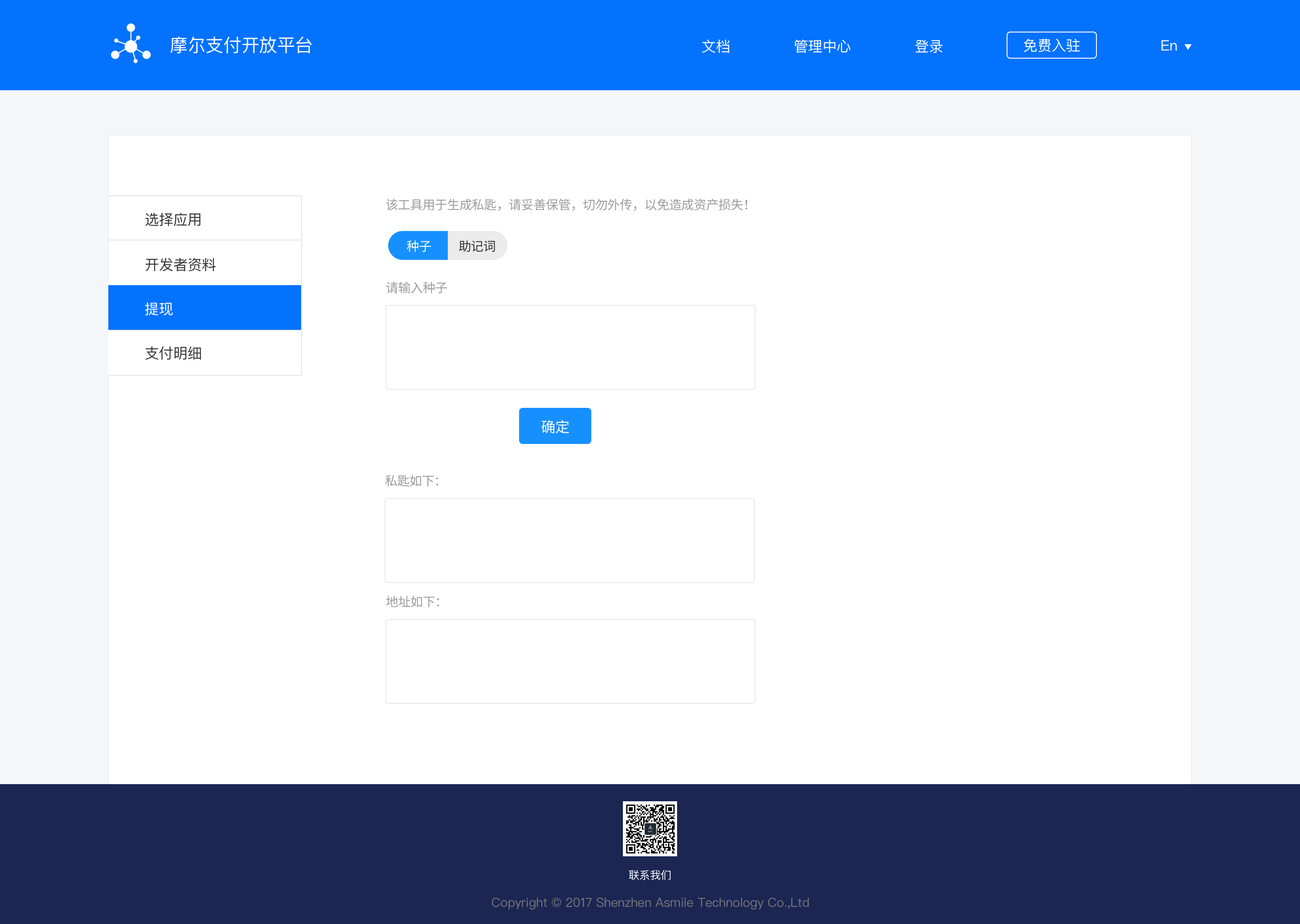
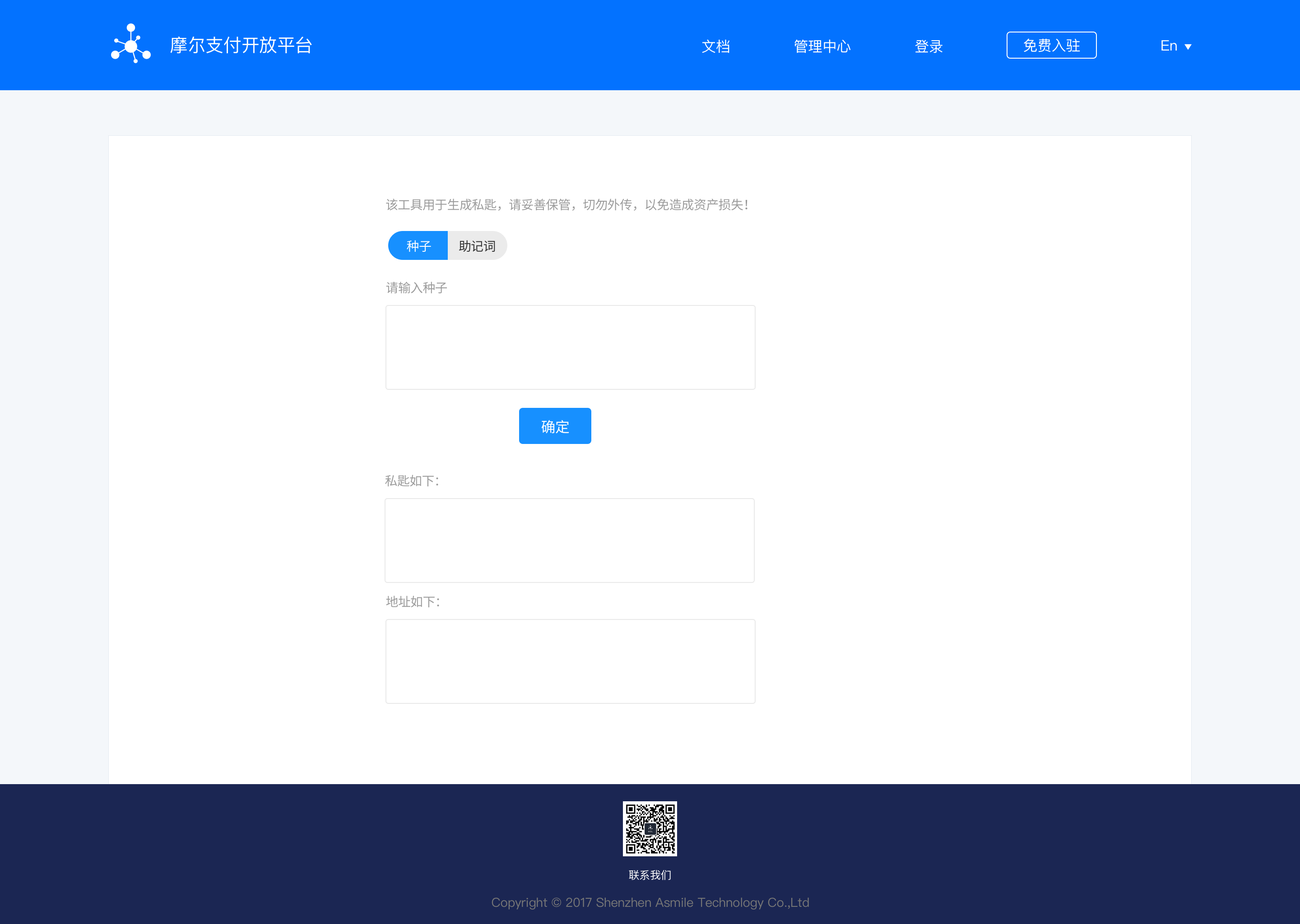
私匙更新

Changed region(s): [[0.0625, 0.2812, 0.25, 0.4062], [0.125, 0.2188, 0.1562, 0.25]]

diff --git a/摩尔支付开放平台/私匙/index.html b/摩尔支付开放平台/私匙/index.html
@@ -1661,7 +1661,7 @@ I18N['zh-cn'] = {
     init.prototype = SMApp.fn;
     window.SMApp = SMApp;
 })(window);
-$(function(){ SMApp({"scale":"1","unit":"px","colorFormat":"color-hex","artboards":[{"layers":[{"objectID":"0A1C957A-36DC-4FA8-BDC0-C4E9CF4DA9D5","type":"shape","name":"矩形","rect":{"x":0,"y":0,"width":1440,"height":100},"rotation":0,"radius":0,"borders":[],"fills":[{"fillType":"color","color":{"r":3,"g":114,"b":255,"a":1,"color-hex":"#0372FF 100%","argb-hex":"#FF0372FF","css-rgba":"rgba(3,114,255,1)","ui-color":"(r:0.01 g:0.45 b:1.00 a:1.00)"}}],"shadows":[],"opacity":1,"styleName":"","css":["background: #0372FF;"]},{"objectID":"A4912F43-6F9C-484B-A574-D0B60FF44DA0","type":"text","name":"En","rect":{"x":1285.5,"y":39,"width":19,"height":22},"rotation":0,"radius":0,"borders":[],"fills":[],"shadows":[],"opacity":1,"styleName":"","content":"En","color":{"r":255,"g":255,"b":255,"a":1,"color-hex":"#FFFFFF 100%","argb-hex":"#FFFFFFFF","css-rgba":"rgba(255,255,255,1)","ui-color":"(r:1.00 g:1.00 b:1.00 a:1.00)"},"fontSize":16,"fontFace":"PingFangSC-Regular","textAlign":"center","letterSpacing":-0.2231796,"lineHeight":22,"css":["font-family: PingFangSC-Regular;","font-size: 16px;","color: #FFFFFF;","letter-spacing: -0.22px;","text-align: center;"]},{"objectID":"61E01CC3-31BA-4160-82E2-FCCB2616BC03","type":"slice","name":"Expansion","rect":{"x":1312,"y":49,"width":8,"height":6.3},"css":["transform: rotate(-180deg);","background: #FFFFFF;"],"exportable":[{"name":"Expansion","format":"png","path":"Expansion@1x.png"},{"name":"Expansion","format":"png","path":"mdpi/Expansion.svg"}]},{"objectID":"602B827E-B468-432F-AEA1-45779EEC31F7","type":"slice","name":"logo","rect":{"x":123,"y":26,"width":44,"height":44},"css":["background: #FFFFFF;"],"exportable":[{"name":"logo","format":"png","path":"logo@1x.png"},{"name":"logo","format":"png","path":"mdpi/logo.svg"}]},{"objectID":"1915C114-AEBB-4E1C-B26D-BD3E9548A801","type":"text","name":"摩尔支付开放平台","rect":{"x":188,"y":36,"width":159,"height":28},"rotation":0,"radius":0,"borders":[],"fills":[],"shadows":[],"opacity":1,"styleName":"","content":"摩尔支付开放平台","color":{"r":255,"g":255,"b":255,"a":1,"color-hex":"#FFFFFF 100%","argb-hex":"#FFFFFFFF","css-rgba":"rgba(255,255,255,1)","ui-color":"(r:1.00 g:1.00 b:1.00 a:1.00)"},"fontSize":20,"fontFace":"PingFangSC-Regular","textAlign":"center","letterSpacing":-0.2092309,"lineHeight":28,"css":["font-family: PingFangSC-Regular;","font-size: 20px;","color: #FFFFFF;","letter-spacing: -0.21px;","text-align: center;"]},{"objectID":"BC3B90B1-C7BC-4526-8487-7C83133846DC","type":"text","name":"文档","rect":{"x":777,"y":40,"width":32,"height":22},"rotation":0,"radius":0,"borders":[],"fills":[],"shadows":[],"opacity":1,"styleName":"","content":"文档","color":{"r":255,"g":255,"b":255,"a":1,"color-hex":"#FFFFFF 100%","argb-hex":"#FFFFFFFF","css-rgba":"rgba(255,255,255,1)","ui-color":"(r:1.00 g:1.00 b:1.00 a:1.00)"},"fontSize":16,"fontFace":"PingFangSC-Regular","textAlign":"center","letterSpacing":-0.1673847,"lineHeight":22,"css":["font-family: PingFangSC-Regular;","font-size: 16px;","color: #FFFFFF;","letter-spacing: -0.17px;","text-align: center;"]},{"objectID":"6A8680C0-0F57-4E5E-ACC3-D3C4BE0EFB75","type":"text","name":"管理中心","rect":{"x":879,"y":40,"width":64,"height":22},"rotation":0,"radius":0,"borders":[],"fills":[],"shadows":[],"opacity":1,"styleName":"","content":"管理中心","color":{"r":255,"g":255,"b":255,"a":1,"color-hex":"#FFFFFF 100%","argb-hex":"#FFFFFFFF","css-rgba":"rgba(255,255,255,1)","ui-color":"(r:1.00 g:1.00 b:1.00 a:1.00)"},"fontSize":16,"fontFace":"PingFangSC-Regular","textAlign":"center","letterSpacing":-0.1673847,"lineHeight":22,"css":["font-family: PingFangSC-Regular;","font-size: 16px;","color: #FFFFFF;","letter-spacing: -0.17px;","text-align: center;"]},{"objectID":"E7B201AD-21E7-4EBE-93A9-DC160C429235","type":"text","name":"登录","rect":{"x":1013,"y":40,"width":32,"height":22},"rotation":0,"radius":0,"borders":[],"fills":[],"shadows":[],"opacity":1,"styleName":"","content":"登录","color":{"r":255,"g":255,"b":255,"a":1,"color-hex":"#FFFFFF 100%","argb-hex":"#FFFFFFFF","css-rgba":"rgba(255,255,255,1)","ui-color":"(r:1.00 g:1.00 b:1.00 a:1.00)"},"fontSize":16,"fontFace":"PingFangSC-Regular","textAlign":"center","letterSpacing":-0.1673847,"lineHeight":22,"css":["font-family: PingFangSC-Regular;","font-size: 16px;","color: #FFFFFF;","letter-spacing: -0.17px;","text-align: center;"]},{"objectID":"76AA71CF-F390-4C1B-8620-9D1C7236388C","type":"text","name":"免费入驻","rect":{"x":1133,"y":39,"width":64,"height":22},"rotation":0,"radius":0,"borders":[],"fills":[],"shadows":[],"opacity":1,"styleName":"","content":"免费入驻","color":{"r":255,"g":255,"b":255,"a":1,"color-hex":"#FFFFFF 100%","argb-hex":"#FFFFFFFF","css-rgba":"rgba(255,255,255,1)","ui-color":"(r:1.00 g:1.00 b:1.00 a:1.00)"},"fontSize":16,"fontFace":"PingFangSC-Regular","textAlign":"center","letterSpacing":-0.1673847,"lineHeight":22,"css":["font-family: PingFangSC-Regular;","font-size: 16px;","color: #FFFFFF;","letter-spacing: -0.17px;","text-align: center;"]},{"objectID":"F08786CB-BFE1-4BE7-ABC4-3C3E75A24316","type":"shape","name":"矩形","rect":{"x":1115,"y":35,"width":100,"height":30},"rotation":0,"radius":4,"borders":[{"fillType":"color","position":"inside","thickness":1,"color":{"r":255,"g":255,"b":255,"a":1,"color-hex":"#FFFFFF 100%","argb-hex":"#FFFFFFFF","css-rgba":"rgba(255,255,255,1)","ui-color":"(r:1.00 g:1.00 b:1.00 a:1.00)"}}],"fills":[],"shadows":[],"opacity":1,"styleName":"","css":["border: 1px solid #FFFFFF;","border-radius: 4px;"]},{"objectID":"536975AE-C8E7-4EDF-A716-7A8EA44C1FB2","type":"shape","name":"矩形","rect":{"x":0,"y":869,"width":1440,"height":155},"rotation":0,"radius":0,"borders":[],"fills":[{"fillType":"color","color":{"r":27,"g":38,"b":83,"a":1,"color-hex":"#1B2653 100%","argb-hex":"#FF1B2653","css-rgba":"rgba(27,38,83,1)","ui-color":"(r:0.11 g:0.15 b:0.33 a:1.00)"}}],"shadows":[],"opacity":1,"styleName":"","css":["background: #1B2653;"]},{"objectID":"D9AC897D-B4A6-4992-BF5F-9BF0AC6F2FE0","type":"text","name":"Copyright &#169 2017 She","rect":{"x":544,"y":990,"width":353,"height":20},"rotation":0,"radius":0,"borders":[],"fills":[],"shadows":[],"opacity":1,"styleName":"","content":"Copyright &#169 2017 Shenzhen Asmile Technology Co.,Ltd","color":{"r":118,"g":118,"b":118,"a":1,"color-hex":"#767676 100%","argb-hex":"#FF767676","css-rgba":"rgba(118,118,118,1)","ui-color":"(r:0.46 g:0.46 b:0.46 a:1.00)"},"fontSize":14,"fontFace":"PingFangSC-Regular","textAlign":"center","letterSpacing":-0.1464617,"lineHeight":20,"css":["font-family: PingFangSC-Regular;","font-size: 14px;","color: #767676;","letter-spacing: -0.15px;","text-align: center;"]},{"objectID":"4412230F-C463-4F86-98C1-986B607578E5","type":"text","name":"联系我们","rect":{"x":696,"y":961,"width":48,"height":17},"rotation":0,"radius":0,"borders":[],"fills":[],"shadows":[],"opacity":1,"styleName":"","content":"联系我们","color":{"r":255,"g":255,"b":255,"a":1,"color-hex":"#FFFFFF 100%","argb-hex":"#FFFFFFFF","css-rgba":"rgba(255,255,255,1)","ui-color":"(r:1.00 g:1.00 b:1.00 a:1.00)"},"fontSize":12,"fontFace":"PingFangSC-Regular","textAlign":"center","letterSpacing":-0.1255386,"lineHeight":17,"css":["font-family: PingFangSC-Regular;","font-size: 12px;","color: #FFFFFF;","letter-spacing: -0.13px;","text-align: center;"]},{"objectID":"B9211943-A84C-4D57-B9CA-E33D772E5F1F","type":"shape","name":"二维码","rect":{"x":690,"y":888,"width":60,"height":61},"rotation":0,"radius":0,"borders":[],"fills":[],"shadows":[],"opacity":1,"styleName":""},{"objectID":"72EE8738-7FD3-464C-8AA7-D7BD938295AB","type":"shape","name":"矩形 copy","rect":{"x":120,"y":317,"width":214,"height":50},"rotation":0,"radius":0,"borders":[],"fills":[{"fillType":"color","color":{"r":255,"g":255,"b":255,"a":1,"color-hex":"#FFFFFF 100%","argb-hex":"#FFFFFFFF","css-rgba":"rgba(255,255,255,1)","ui-color":"(r:1.00 g:1.00 b:1.00 a:1.00)"}}],"shadows":[],"opacity":1,"styleName":"","css":["background: #FFFFFF;"]},{"objectID":"6F1F7BC6-6625-41A5-BCEA-9004950B3D0A","type":"shape","name":"矩形","rect":{"x":120,"y":316,"width":214,"height":50},"rotation":0,"radius":0,"borders":[],"fills":[{"fillType":"color","color":{"r":3,"g":114,"b":255,"a":1,"color-hex":"#0372FF 100%","argb-hex":"#FF0372FF","css-rgba":"rgba(3,114,255,1)","ui-color":"(r:0.01 g:0.45 b:1.00 a:1.00)"}}],"shadows":[],"opacity":1,"styleName":"","css":["background: #0372FF;"]},{"objectID":"45CB775E-A5D7-40F8-9149-CAA90181886C","type":"shape","name":"矩形 copy 2","rect":{"x":120,"y":366,"width":214,"height":50},"rotation":0,"radius":0,"borders":[],"fills":[{"fillType":"color","color":{"r":255,"g":255,"b":255,"a":1,"color-hex":"#FFFFFF 100%","argb-hex":"#FFFFFFFF","css-rgba":"rgba(255,255,255,1)","ui-color":"(r:1.00 g:1.00 b:1.00 a:1.00)"}}],"shadows":[],"opacity":1,"styleName":"","css":["background: #FFFFFF;"]},{"objectID":"16C1C58C-A249-4894-A337-C7C42E5FD1D2","type":"shape","name":"直线","rect":{"x":120,"y":365,"width":215,"height":2},"rotation":0,"radius":0,"borders":[{"fillType":"color","position":"center","thickness":1,"color":{"r":224,"g":230,"b":237,"a":1,"color-hex":"#E0E6ED 100%","argb-hex":"#FFE0E6ED","css-rgba":"rgba(224,230,237,1)","ui-color":"(r:0.88 g:0.90 b:0.93 a:1.00)"}}],"fills":[],"shadows":[],"opacity":1,"styleName":"","css":["border: 1px solid #E0E6ED;"]},{"objectID":"497A8293-413D-4B39-9BC6-0A6F84C0E8F8","type":"shape","name":"直线 copy 5","rect":{"x":120,"y":265,"width":215,"height":2},"rotation":0,"radius":0,"borders":[{"fillType":"color","position":"center","thickness":1,"color":{"r":224,"g":230,"b":237,"a":1,"color-hex":"#E0E6ED 100%","argb-hex":"#FFE0E6ED","css-rgba":"rgba(224,230,237,1)","ui-color":"(r:0.88 g:0.90 b:0.93 a:1.00)"}}],"fills":[],"shadows":[],"opacity":1,"styleName":"","css":["border: 1px solid #E0E6ED;"]},{"objectID":"4991BD96-8FF3-48B3-A8A6-D3F942BDC72F","type":"shape","name":"直线 copy 3","rect":{"x":120,"y":216,"width":215,"height":2},"rotation":0,"radius":0,"borders":[{"fillType":"color","position":"center","thickness":1,"color":{"r":224,"g":230,"b":237,"a":1,"color-hex":"#E0E6ED 100%","argb-hex":"#FFE0E6ED","css-rgba":"rgba(224,230,237,1)","ui-color":"(r:0.88 g:0.90 b:0.93 a:1.00)"}}],"fills":[],"shadows":[],"opacity":1,"styleName":"","css":["border: 1px solid #E0E6ED;"]},{"objectID":"6B2FA85A-A197-4419-9C84-B5B9C9407857","type":"shape","name":"直线 copy 2","rect":{"x":120,"y":415,"width":215,"height":2},"rotation":0,"radius":0,"borders":[{"fillType":"color","position":"center","thickness":1,"color":{"r":224,"g":230,"b":237,"a":1,"color-hex":"#E0E6ED 100%","argb-hex":"#FFE0E6ED","css-rgba":"rgba(224,230,237,1)","ui-color":"(r:0.88 g:0.90 b:0.93 a:1.00)"}}],"fills":[],"shadows":[],"opacity":1,"styleName":"","css":["border: 1px solid #E0E6ED;"]},{"objectID":"6D666F75-191E-41D5-BA34-C3B3E32AE599","type":"shape","name":"直线 copy","rect":{"x":333.5,"y":216.5,"width":1,"height":200},"rotation":90,"radius":0,"borders":[{"fillType":"color","position":"center","thickness":1,"color":{"r":224,"g":230,"b":237,"a":1,"color-hex":"#E0E6ED 100%","argb-hex":"#FFE0E6ED","css-rgba":"rgba(224,230,237,1)","ui-color":"(r:0.88 g:0.90 b:0.93 a:1.00)"}}],"fills":[],"shadows":[],"opacity":1,"styleName":"","css":["transform: rotate(-90deg);","border: 1px solid #E0E6ED;"]},{"objectID":"C8224D1B-7AC3-4FA7-BF98-28022F4FC000","type":"text","name":"开发者资料","rect":{"x":160,"y":282,"width":80,"height":22},"rotation":0,"radius":0,"borders":[],"fills":[],"shadows":[],"opacity":1,"styleName":"","content":"开发者资料","color":{"r":51,"g":51,"b":51,"a":1,"color-hex":"#333333 100%","argb-hex":"#FF333333","css-rgba":"rgba(51,51,51,1)","ui-color":"(r:0.20 g:0.20 b:0.20 a:1.00)"},"fontSize":16,"fontFace":"PingFangSC-Regular","textAlign":"center","letterSpacing":-0.1673848,"lineHeight":22,"css":["font-family: PingFangSC-Regular;","font-size: 16px;","color: #333333;","letter-spacing: -0.17px;","text-align: center;"]},{"objectID":"9C3FD272-9696-4D53-B58D-5AE1520A7579","type":"text","name":"提现","rect":{"x":160,"y":331,"width":32,"height":22},"rotation":0,"radius":0,"borders":[],"fills":[],"shadows":[],"opacity":1,"styleName":"","content":"提现","color":{"r":255,"g":255,"b":255,"a":1,"color-hex":"#FFFFFF 100%","argb-hex":"#FFFFFFFF","css-rgba":"rgba(255,255,255,1)","ui-color":"(r:1.00 g:1.00 b:1.00 a:1.00)"},"fontSize":16,"fontFace":"PingFangSC-Regular","textAlign":"center","letterSpacing":-0.1673848,"lineHeight":22,"css":["font-family: PingFangSC-Regular;","font-size: 16px;","color: #FFFFFF;","letter-spacing: -0.17px;","text-align: center;"]},{"objectID":"6A0E709C-FCD3-494A-96A1-B19C9A637AE7","type":"text","name":"选择应用","rect":{"x":160,"y":232,"width":64,"height":22},"rotation":0,"radius":0,"borders":[],"fills":[],"shadows":[],"opacity":1,"styleName":"","content":"选择应用","color":{"r":51,"g":51,"b":51,"a":1,"color-hex":"#333333 100%","argb-hex":"#FF333333","css-rgba":"rgba(51,51,51,1)","ui-color":"(r:0.20 g:0.20 b:0.20 a:1.00)"},"fontSize":16,"fontFace":"PingFangSC-Regular","textAlign":"center","letterSpacing":-0.1673848,"lineHeight":22,"css":["font-family: PingFangSC-Regular;","font-size: 16px;","color: #333333;","letter-spacing: -0.17px;","text-align: center;"]},{"objectID":"FB179A11-152C-4520-A7CF-4E6BCACD607F","type":"text","name":"支付明细","rect":{"x":160,"y":380,"width":64,"height":22},"rotation":0,"radius":0,"borders":[],"fills":[],"shadows":[],"opacity":1,"styleName":"","content":"支付明细","color":{"r":51,"g":51,"b":51,"a":1,"color-hex":"#333333 100%","argb-hex":"#FF333333","css-rgba":"rgba(51,51,51,1)","ui-color":"(r:0.20 g:0.20 b:0.20 a:1.00)"},"fontSize":16,"fontFace":"PingFangSC-Regular","textAlign":"center","letterSpacing":-0.1673848,"lineHeight":22,"css":["font-family: PingFangSC-Regular;","font-size: 16px;","color: #333333;","letter-spacing: -0.17px;","text-align: center;"]},{"objectID":"A94D5044-39EF-48F9-B296-07A77F74BF92","type":"shape","name":"矩形 copy 35","rect":{"x":427,"y":338,"width":410,"height":94},"rotation":0,"radius":3,"borders":[{"fillType":"color","position":"inside","thickness":1,"color":{"r":233,"g":233,"b":233,"a":1,"color-hex":"#E9E9E9 100%","argb-hex":"#FFE9E9E9","css-rgba":"rgba(233,233,233,1)","ui-color":"(r:0.91 g:0.91 b:0.91 a:1.00)"}}],"fills":[],"shadows":[],"opacity":1,"styleName":"","css":["border: 1px solid #E9E9E9;","border-radius: 3px;"]},{"objectID":"0A4D843F-8798-46ED-8128-BD3720EC1BD2","type":"shape","name":"矩形 copy 36","rect":{"x":426,"y":552,"width":410,"height":94},"rotation":0,"radius":3,"borders":[{"fillType":"color","position":"inside","thickness":1,"color":{"r":233,"g":233,"b":233,"a":1,"color-hex":"#E9E9E9 100%","argb-hex":"#FFE9E9E9","css-rgba":"rgba(233,233,233,1)","ui-color":"(r:0.91 g:0.91 b:0.91 a:1.00)"}}],"fills":[],"shadows":[],"opacity":1,"styleName":"","css":["border: 1px solid #E9E9E9;","border-radius: 3px;"]},{"objectID":"1C808E72-9DF8-432A-91BA-F21412218F12","type":"shape","name":"矩形 copy 37","rect":{"x":427,"y":686,"width":410,"height":94},"rotation":0,"radius":3,"borders":[{"fillType":"color","position":"inside","thickness":1,"color":{"r":233,"g":233,"b":233,"a":1,"color-hex":"#E9E9E9 100%","argb-hex":"#FFE9E9E9","css-rgba":"rgba(233,233,233,1)","ui-color":"(r:0.91 g:0.91 b:0.91 a:1.00)"}}],"fills":[],"shadows":[],"opacity":1,"styleName":"","css":["border: 1px solid #E9E9E9;","border-radius: 3px;"]},{"objectID":"95F57119-6FE4-4C7E-82F8-C1DAD1A4890A","type":"shape","name":"矩形 copy 3","rect":{"x":575,"y":452,"width":80,"height":40},"rotation":0,"radius":4,"borders":[],"fills":[{"fillType":"color","color":{"r":23,"g":144,"b":255,"a":1,"color-hex":"#1790FF 100%","argb-hex":"#FF1790FF","css-rgba":"rgba(23,144,255,1)","ui-color":"(r:0.09 g:0.56 b:1.00 a:1.00)"}}],"shadows":[],"opacity":1,"styleName":"","css":["background: #1790FF;","border-radius: 4px;"]},{"objectID":"3A6A6BC9-BF3F-4FFC-9AFB-1C4C152ABFC9","type":"text","name":"确定","rect":{"x":599,"y":460,"width":32,"height":24},"rotation":0,"radius":0,"borders":[],"fills":[],"shadows":[],"opacity":1,"styleName":"","content":"确定","color":{"r":255,"g":255,"b":255,"a":1,"color-hex":"#FFFFFF 100%","argb-hex":"#FFFFFFFF","css-rgba":"rgba(255,255,255,1)","ui-color":"(r:1.00 g:1.00 b:1.00 a:1.00)"},"fontSize":16,"fontFace":"SourceHanSansSC-Regular","textAlign":"center","letterSpacing":-0.3858823,"lineHeight":24,"css":["font-family: SourceHanSansSC-Regular;","font-size: 16px;","color: #FFFFFF;","letter-spacing: -0.39px;","text-align: center;"]},{"objectID":"078EA06F-3968-446E-90AB-5FD44F9F3659","type":"text","name":"该工具用于生成私匙，请妥善保管，切勿外传","rect":{"x":427,"y":216,"width":410,"height":20},"rotation":0,"radius":0,"borders":[],"fills":[],"shadows":[],"opacity":1,"styleName":"","content":"该工具用于生成私匙，请妥善保管，切勿外传，以免造成资产损失！","color":{"r":155,"g":155,"b":155,"a":1,"color-hex":"#9B9B9B 100%","argb-hex":"#FF9B9B9B","css-rgba":"rgba(155,155,155,1)","ui-color":"(r:0.61 g:0.61 b:0.61 a:1.00)"},"fontSize":14,"fontFace":"SourceHanSansSC-Regular","textAlign":"center","letterSpacing":-0.337647,"lineHeight":20,"css":["font-family: SourceHanSansSC-Regular;","font-size: 14px;","color: #9B9B9B;","letter-spacing: -0.34px;","text-align: center;"]},{"objectID":"AE74C487-BF25-456C-B6CC-1C2F3666583A","type":"text","name":"请输入种子","rect":{"x":427,"y":308,"width":69,"height":20},"rotation":0,"radius":0,"borders":[],"fills":[],"shadows":[],"opacity":1,"styleName":"","content":"请输入种子","color":{"r":155,"g":155,"b":155,"a":1,"color-hex":"#9B9B9B 100%","argb-hex":"#FF9B9B9B","css-rgba":"rgba(155,155,155,1)","ui-color":"(r:0.61 g:0.61 b:0.61 a:1.00)"},"fontSize":14,"fontFace":"SourceHanSansSC-Regular","textAlign":"center","letterSpacing":-0.337647,"lineHeight":20,"css":["font-family: SourceHanSansSC-Regular;","font-size: 14px;","color: #9B9B9B;","letter-spacing: -0.34px;","text-align: center;"]},{"objectID":"F88C05D5-14CF-4BFD-9A32-BD154659270F","type":"text","name":"私匙如下：","rect":{"x":426,"y":522,"width":69,"height":20},"rotation":0,"radius":0,"borders":[],"fills":[],"shadows":[],"opacity":1,"styleName":"","content":"私匙如下：","color":{"r":155,"g":155,"b":155,"a":1,"color-hex":"#9B9B9B 100%","argb-hex":"#FF9B9B9B","css-rgba":"rgba(155,155,155,1)","ui-color":"(r:0.61 g:0.61 b:0.61 a:1.00)"},"fontSize":14,"fontFace":"SourceHanSansSC-Regular","textAlign":"center","letterSpacing":-0.337647,"lineHeight":20,"css":["font-family: SourceHanSansSC-Regular;","font-size: 14px;","color: #9B9B9B;","letter-spacing: -0.34px;","text-align: center;"]},{"objectID":"6A489785-65AA-4F42-AFAC-E80A9F1A8BB8","type":"text","name":"地址如下：","rect":{"x":427,"y":656,"width":69,"height":20},"rotation":0,"radius":0,"borders":[],"fills":[],"shadows":[],"opacity":1,"styleName":"","content":"地址如下：","color":{"r":155,"g":155,"b":155,"a":1,"color-hex":"#9B9B9B 100%","argb-hex":"#FF9B9B9B","css-rgba":"rgba(155,155,155,1)","ui-color":"(r:0.61 g:0.61 b:0.61 a:1.00)"},"fontSize":14,"fontFace":"SourceHanSansSC-Regular","textAlign":"center","letterSpacing":-0.337647,"lineHeight":20,"css":["font-family: SourceHanSansSC-Regular;","font-size: 14px;","color: #9B9B9B;","letter-spacing: -0.34px;","text-align: center;"]},{"objectID":"95AFD97C-502A-4D15-8994-0FE62C36BB24","type":"shape","name":"矩形","rect":{"x":430,"y":256,"width":66,"height":32},"rotation":0,"radius":[16,0,0,16],"borders":[],"fills":[{"fillType":"color","color":{"r":23,"g":144,"b":255,"a":1,"color-hex":"#1790FF 100%","argb-hex":"#FF1790FF","css-rgba":"rgba(23,144,255,1)","ui-color":"(r:0.09 g:0.56 b:1.00 a:1.00)"}}],"shadows":[],"opacity":1,"styleName":"","css":["background: #1790FF;","border-radius: 16px 0px 0px 16px;"]},{"objectID":"42DF83DA-A4B3-4BCD-B375-860E0C69FA82","type":"text","name":"种子","rect":{"x":450,"y":262,"width":28,"height":20},"rotation":0,"radius":0,"borders":[],"fills":[],"shadows":[],"opacity":1,"styleName":"","content":"种子","color":{"r":255,"g":255,"b":255,"a":1,"color-hex":"#FFFFFF 100%","argb-hex":"#FFFFFFFF","css-rgba":"rgba(255,255,255,1)","ui-color":"(r:1.00 g:1.00 b:1.00 a:1.00)"},"fontSize":14,"fontFace":"SourceHanSansSC-Regular","textAlign":"center","letterSpacing":-0.337647,"lineHeight":20,"css":["font-family: SourceHanSansSC-Regular;","font-size: 14px;","color: #FFFFFF;","letter-spacing: -0.34px;","text-align: center;"]},{"objectID":"C66B8166-C197-474E-B2DB-0EED5AE098B4","type":"shape","name":"矩形 copy 4","rect":{"x":496,"y":256,"width":66,"height":32},"rotation":0,"radius":[16,0,0,16],"borders":[],"fills":[{"fillType":"color","color":{"r":235,"g":235,"b":235,"a":1,"color-hex":"#EBEBEB 100%","argb-hex":"#FFEBEBEB","css-rgba":"rgba(235,235,235,1)","ui-color":"(r:0.92 g:0.92 b:0.92 a:1.00)"}}],"shadows":[],"opacity":1,"styleName":"","css":["background: #EBEBEB;","border-radius: 16px 0px 0px 16px;"]},{"objectID":"E63C9302-0A3A-493D-8729-1FCED1A232D5","type":"text","name":"助记词","rect":{"x":508,"y":262,"width":41,"height":20},"rotation":0,"radius":0,"borders":[],"fills":[],"shadows":[],"opacity":1,"styleName":"","content":"助记词","color":{"r":51,"g":51,"b":51,"a":1,"color-hex":"#333333 100%","argb-hex":"#FF333333","css-rgba":"rgba(51,51,51,1)","ui-color":"(r:0.20 g:0.20 b:0.20 a:1.00)"},"fontSize":14,"fontFace":"SourceHanSansSC-Regular","textAlign":"center","letterSpacing":-0.337647,"lineHeight":20,"css":["font-family: SourceHanSansSC-Regular;","font-size: 14px;","color: #333333;","letter-spacing: -0.34px;","text-align: center;"]}],"notes":[],"pageName":"摩尔支付开放平台","pageObjectID":"42363F7B-A687-4B6C-B32A-2EDD1135B6E6","name":"私匙","slug":"摩尔支付开放平台-私匙","objectID":"9A7FD532-D369-40CB-BB7C-8B23A0FDA510","width":1440,"height":1024,"imagePath":"preview/%E6%91%A9%E5%B0%94%E6%94%AF%E4%BB%98%E5%BC%80%E6%94%BE%E5%B9%B3%E5%8F%B0-%E7%A7%81%E5%8C%99.png"}],"slices":[{"name":"Expansion","objectID":"61E01CC3-31BA-4160-82E2-FCCB2616BC03","rect":{"x":1312,"y":49,"width":8,"height":6.3},"exportable":[{"name":"Expansion","format":"png","path":"Expansion@1x.png"},{"name":"Expansion","format":"png","path":"mdpi/Expansion.svg"}]},{"name":"logo","objectID":"602B827E-B468-432F-AEA1-45779EEC31F7","rect":{"x":123,"y":26,"width":44,"height":44},"exportable":[{"name":"logo","format":"png","path":"logo@1x.png"},{"name":"logo","format":"png","path":"mdpi/logo.svg"}]}],"colors":[]}) });
+$(function(){ SMApp({"scale":"1","unit":"px","colorFormat":"color-hex","artboards":[{"layers":[{"objectID":"0A1C957A-36DC-4FA8-BDC0-C4E9CF4DA9D5","type":"shape","name":"矩形","rect":{"x":0,"y":0,"width":1440,"height":100},"rotation":0,"radius":0,"borders":[],"fills":[{"fillType":"color","color":{"r":3,"g":114,"b":255,"a":1,"color-hex":"#0372FF 100%","argb-hex":"#FF0372FF","css-rgba":"rgba(3,114,255,1)","ui-color":"(r:0.01 g:0.45 b:1.00 a:1.00)"}}],"shadows":[],"opacity":1,"styleName":"","css":["background: #0372FF;"]},{"objectID":"A4912F43-6F9C-484B-A574-D0B60FF44DA0","type":"text","name":"En","rect":{"x":1285.5,"y":39,"width":19,"height":22},"rotation":0,"radius":0,"borders":[],"fills":[],"shadows":[],"opacity":1,"styleName":"","content":"En","color":{"r":255,"g":255,"b":255,"a":1,"color-hex":"#FFFFFF 100%","argb-hex":"#FFFFFFFF","css-rgba":"rgba(255,255,255,1)","ui-color":"(r:1.00 g:1.00 b:1.00 a:1.00)"},"fontSize":16,"fontFace":"PingFangSC-Regular","textAlign":"center","letterSpacing":-0.2231796,"lineHeight":22,"css":["font-family: PingFangSC-Regular;","font-size: 16px;","color: #FFFFFF;","letter-spacing: -0.22px;","text-align: center;"]},{"objectID":"61E01CC3-31BA-4160-82E2-FCCB2616BC03","type":"slice","name":"Expansion","rect":{"x":1312,"y":49,"width":8,"height":6.3},"css":["transform: rotate(-180deg);","background: #FFFFFF;"],"exportable":[{"name":"Expansion","format":"png","path":"Expansion@1x.png"},{"name":"Expansion","format":"png","path":"mdpi/Expansion.svg"}]},{"objectID":"602B827E-B468-432F-AEA1-45779EEC31F7","type":"slice","name":"logo","rect":{"x":123,"y":26,"width":44,"height":44},"css":["background: #FFFFFF;"],"exportable":[{"name":"logo","format":"png","path":"logo@1x.png"},{"name":"logo","format":"png","path":"mdpi/logo.svg"}]},{"objectID":"1915C114-AEBB-4E1C-B26D-BD3E9548A801","type":"text","name":"摩尔支付开放平台","rect":{"x":188,"y":36,"width":159,"height":28},"rotation":0,"radius":0,"borders":[],"fills":[],"shadows":[],"opacity":1,"styleName":"","content":"摩尔支付开放平台","color":{"r":255,"g":255,"b":255,"a":1,"color-hex":"#FFFFFF 100%","argb-hex":"#FFFFFFFF","css-rgba":"rgba(255,255,255,1)","ui-color":"(r:1.00 g:1.00 b:1.00 a:1.00)"},"fontSize":20,"fontFace":"PingFangSC-Regular","textAlign":"center","letterSpacing":-0.2092309,"lineHeight":28,"css":["font-family: PingFangSC-Regular;","font-size: 20px;","color: #FFFFFF;","letter-spacing: -0.21px;","text-align: center;"]},{"objectID":"BC3B90B1-C7BC-4526-8487-7C83133846DC","type":"text","name":"文档","rect":{"x":777,"y":40,"width":32,"height":22},"rotation":0,"radius":0,"borders":[],"fills":[],"shadows":[],"opacity":1,"styleName":"","content":"文档","color":{"r":255,"g":255,"b":255,"a":1,"color-hex":"#FFFFFF 100%","argb-hex":"#FFFFFFFF","css-rgba":"rgba(255,255,255,1)","ui-color":"(r:1.00 g:1.00 b:1.00 a:1.00)"},"fontSize":16,"fontFace":"PingFangSC-Regular","textAlign":"center","letterSpacing":-0.1673847,"lineHeight":22,"css":["font-family: PingFangSC-Regular;","font-size: 16px;","color: #FFFFFF;","letter-spacing: -0.17px;","text-align: center;"]},{"objectID":"6A8680C0-0F57-4E5E-ACC3-D3C4BE0EFB75","type":"text","name":"管理中心","rect":{"x":879,"y":40,"width":64,"height":22},"rotation":0,"radius":0,"borders":[],"fills":[],"shadows":[],"opacity":1,"styleName":"","content":"管理中心","color":{"r":255,"g":255,"b":255,"a":1,"color-hex":"#FFFFFF 100%","argb-hex":"#FFFFFFFF","css-rgba":"rgba(255,255,255,1)","ui-color":"(r:1.00 g:1.00 b:1.00 a:1.00)"},"fontSize":16,"fontFace":"PingFangSC-Regular","textAlign":"center","letterSpacing":-0.1673847,"lineHeight":22,"css":["font-family: PingFangSC-Regular;","font-size: 16px;","color: #FFFFFF;","letter-spacing: -0.17px;","text-align: center;"]},{"objectID":"E7B201AD-21E7-4EBE-93A9-DC160C429235","type":"text","name":"登录","rect":{"x":1013,"y":40,"width":32,"height":22},"rotation":0,"radius":0,"borders":[],"fills":[],"shadows":[],"opacity":1,"styleName":"","content":"登录","color":{"r":255,"g":255,"b":255,"a":1,"color-hex":"#FFFFFF 100%","argb-hex":"#FFFFFFFF","css-rgba":"rgba(255,255,255,1)","ui-color":"(r:1.00 g:1.00 b:1.00 a:1.00)"},"fontSize":16,"fontFace":"PingFangSC-Regular","textAlign":"center","letterSpacing":-0.1673847,"lineHeight":22,"css":["font-family: PingFangSC-Regular;","font-size: 16px;","color: #FFFFFF;","letter-spacing: -0.17px;","text-align: center;"]},{"objectID":"76AA71CF-F390-4C1B-8620-9D1C7236388C","type":"text","name":"免费入驻","rect":{"x":1133,"y":39,"width":64,"height":22},"rotation":0,"radius":0,"borders":[],"fills":[],"shadows":[],"opacity":1,"styleName":"","content":"免费入驻","color":{"r":255,"g":255,"b":255,"a":1,"color-hex":"#FFFFFF 100%","argb-hex":"#FFFFFFFF","css-rgba":"rgba(255,255,255,1)","ui-color":"(r:1.00 g:1.00 b:1.00 a:1.00)"},"fontSize":16,"fontFace":"PingFangSC-Regular","textAlign":"center","letterSpacing":-0.1673847,"lineHeight":22,"css":["font-family: PingFangSC-Regular;","font-size: 16px;","color: #FFFFFF;","letter-spacing: -0.17px;","text-align: center;"]},{"objectID":"F08786CB-BFE1-4BE7-ABC4-3C3E75A24316","type":"shape","name":"矩形","rect":{"x":1115,"y":35,"width":100,"height":30},"rotation":0,"radius":4,"borders":[{"fillType":"color","position":"inside","thickness":1,"color":{"r":255,"g":255,"b":255,"a":1,"color-hex":"#FFFFFF 100%","argb-hex":"#FFFFFFFF","css-rgba":"rgba(255,255,255,1)","ui-color":"(r:1.00 g:1.00 b:1.00 a:1.00)"}}],"fills":[],"shadows":[],"opacity":1,"styleName":"","css":["border: 1px solid #FFFFFF;","border-radius: 4px;"]},{"objectID":"536975AE-C8E7-4EDF-A716-7A8EA44C1FB2","type":"shape","name":"矩形","rect":{"x":0,"y":869,"width":1440,"height":155},"rotation":0,"radius":0,"borders":[],"fills":[{"fillType":"color","color":{"r":27,"g":38,"b":83,"a":1,"color-hex":"#1B2653 100%","argb-hex":"#FF1B2653","css-rgba":"rgba(27,38,83,1)","ui-color":"(r:0.11 g:0.15 b:0.33 a:1.00)"}}],"shadows":[],"opacity":1,"styleName":"","css":["background: #1B2653;"]},{"objectID":"D9AC897D-B4A6-4992-BF5F-9BF0AC6F2FE0","type":"text","name":"Copyright &#169 2017 She","rect":{"x":544,"y":990,"width":353,"height":20},"rotation":0,"radius":0,"borders":[],"fills":[],"shadows":[],"opacity":1,"styleName":"","content":"Copyright &#169 2017 Shenzhen Asmile Technology Co.,Ltd","color":{"r":118,"g":118,"b":118,"a":1,"color-hex":"#767676 100%","argb-hex":"#FF767676","css-rgba":"rgba(118,118,118,1)","ui-color":"(r:0.46 g:0.46 b:0.46 a:1.00)"},"fontSize":14,"fontFace":"PingFangSC-Regular","textAlign":"center","letterSpacing":-0.1464617,"lineHeight":20,"css":["font-family: PingFangSC-Regular;","font-size: 14px;","color: #767676;","letter-spacing: -0.15px;","text-align: center;"]},{"objectID":"4412230F-C463-4F86-98C1-986B607578E5","type":"text","name":"联系我们","rect":{"x":696,"y":961,"width":48,"height":17},"rotation":0,"radius":0,"borders":[],"fills":[],"shadows":[],"opacity":1,"styleName":"","content":"联系我们","color":{"r":255,"g":255,"b":255,"a":1,"color-hex":"#FFFFFF 100%","argb-hex":"#FFFFFFFF","css-rgba":"rgba(255,255,255,1)","ui-color":"(r:1.00 g:1.00 b:1.00 a:1.00)"},"fontSize":12,"fontFace":"PingFangSC-Regular","textAlign":"center","letterSpacing":-0.1255386,"lineHeight":17,"css":["font-family: PingFangSC-Regular;","font-size: 12px;","color: #FFFFFF;","letter-spacing: -0.13px;","text-align: center;"]},{"objectID":"B9211943-A84C-4D57-B9CA-E33D772E5F1F","type":"shape","name":"二维码","rect":{"x":690,"y":888,"width":60,"height":61},"rotation":0,"radius":0,"borders":[],"fills":[],"shadows":[],"opacity":1,"styleName":""},{"objectID":"A94D5044-39EF-48F9-B296-07A77F74BF92","type":"shape","name":"矩形 copy 35","rect":{"x":427,"y":338,"width":410,"height":94},"rotation":0,"radius":3,"borders":[{"fillType":"color","position":"inside","thickness":1,"color":{"r":233,"g":233,"b":233,"a":1,"color-hex":"#E9E9E9 100%","argb-hex":"#FFE9E9E9","css-rgba":"rgba(233,233,233,1)","ui-color":"(r:0.91 g:0.91 b:0.91 a:1.00)"}}],"fills":[],"shadows":[],"opacity":1,"styleName":"","css":["border: 1px solid #E9E9E9;","border-radius: 3px;"]},{"objectID":"0A4D843F-8798-46ED-8128-BD3720EC1BD2","type":"shape","name":"矩形 copy 36","rect":{"x":426,"y":552,"width":410,"height":94},"rotation":0,"radius":3,"borders":[{"fillType":"color","position":"inside","thickness":1,"color":{"r":233,"g":233,"b":233,"a":1,"color-hex":"#E9E9E9 100%","argb-hex":"#FFE9E9E9","css-rgba":"rgba(233,233,233,1)","ui-color":"(r:0.91 g:0.91 b:0.91 a:1.00)"}}],"fills":[],"shadows":[],"opacity":1,"styleName":"","css":["border: 1px solid #E9E9E9;","border-radius: 3px;"]},{"objectID":"1C808E72-9DF8-432A-91BA-F21412218F12","type":"shape","name":"矩形 copy 37","rect":{"x":427,"y":686,"width":410,"height":94},"rotation":0,"radius":3,"borders":[{"fillType":"color","position":"inside","thickness":1,"color":{"r":233,"g":233,"b":233,"a":1,"color-hex":"#E9E9E9 100%","argb-hex":"#FFE9E9E9","css-rgba":"rgba(233,233,233,1)","ui-color":"(r:0.91 g:0.91 b:0.91 a:1.00)"}}],"fills":[],"shadows":[],"opacity":1,"styleName":"","css":["border: 1px solid #E9E9E9;","border-radius: 3px;"]},{"objectID":"95F57119-6FE4-4C7E-82F8-C1DAD1A4890A","type":"shape","name":"矩形 copy 3","rect":{"x":575,"y":452,"width":80,"height":40},"rotation":0,"radius":4,"borders":[],"fills":[{"fillType":"color","color":{"r":23,"g":144,"b":255,"a":1,"color-hex":"#1790FF 100%","argb-hex":"#FF1790FF","css-rgba":"rgba(23,144,255,1)","ui-color":"(r:0.09 g:0.56 b:1.00 a:1.00)"}}],"shadows":[],"opacity":1,"styleName":"","css":["background: #1790FF;","border-radius: 4px;"]},{"objectID":"3A6A6BC9-BF3F-4FFC-9AFB-1C4C152ABFC9","type":"text","name":"确定","rect":{"x":599,"y":460,"width":32,"height":24},"rotation":0,"radius":0,"borders":[],"fills":[],"shadows":[],"opacity":1,"styleName":"","content":"确定","color":{"r":255,"g":255,"b":255,"a":1,"color-hex":"#FFFFFF 100%","argb-hex":"#FFFFFFFF","css-rgba":"rgba(255,255,255,1)","ui-color":"(r:1.00 g:1.00 b:1.00 a:1.00)"},"fontSize":16,"fontFace":"SourceHanSansSC-Regular","textAlign":"center","letterSpacing":-0.3858823,"lineHeight":24,"css":["font-family: SourceHanSansSC-Regular;","font-size: 16px;","color: #FFFFFF;","letter-spacing: -0.39px;","text-align: center;"]},{"objectID":"078EA06F-3968-446E-90AB-5FD44F9F3659","type":"text","name":"该工具用于生成私匙，请妥善保管，切勿外传","rect":{"x":427,"y":216,"width":410,"height":20},"rotation":0,"radius":0,"borders":[],"fills":[],"shadows":[],"opacity":1,"styleName":"","content":"该工具用于生成私匙，请妥善保管，切勿外传，以免造成资产损失！","color":{"r":155,"g":155,"b":155,"a":1,"color-hex":"#9B9B9B 100%","argb-hex":"#FF9B9B9B","css-rgba":"rgba(155,155,155,1)","ui-color":"(r:0.61 g:0.61 b:0.61 a:1.00)"},"fontSize":14,"fontFace":"SourceHanSansSC-Regular","textAlign":"center","letterSpacing":-0.337647,"lineHeight":20,"css":["font-family: SourceHanSansSC-Regular;","font-size: 14px;","color: #9B9B9B;","letter-spacing: -0.34px;","text-align: center;"]},{"objectID":"AE74C487-BF25-456C-B6CC-1C2F3666583A","type":"text","name":"请输入种子","rect":{"x":427,"y":308,"width":69,"height":20},"rotation":0,"radius":0,"borders":[],"fills":[],"shadows":[],"opacity":1,"styleName":"","content":"请输入种子","color":{"r":155,"g":155,"b":155,"a":1,"color-hex":"#9B9B9B 100%","argb-hex":"#FF9B9B9B","css-rgba":"rgba(155,155,155,1)","ui-color":"(r:0.61 g:0.61 b:0.61 a:1.00)"},"fontSize":14,"fontFace":"SourceHanSansSC-Regular","textAlign":"center","letterSpacing":-0.337647,"lineHeight":20,"css":["font-family: SourceHanSansSC-Regular;","font-size: 14px;","color: #9B9B9B;","letter-spacing: -0.34px;","text-align: center;"]},{"objectID":"F88C05D5-14CF-4BFD-9A32-BD154659270F","type":"text","name":"私匙如下：","rect":{"x":426,"y":522,"width":69,"height":20},"rotation":0,"radius":0,"borders":[],"fills":[],"shadows":[],"opacity":1,"styleName":"","content":"私匙如下：","color":{"r":155,"g":155,"b":155,"a":1,"color-hex":"#9B9B9B 100%","argb-hex":"#FF9B9B9B","css-rgba":"rgba(155,155,155,1)","ui-color":"(r:0.61 g:0.61 b:0.61 a:1.00)"},"fontSize":14,"fontFace":"SourceHanSansSC-Regular","textAlign":"center","letterSpacing":-0.337647,"lineHeight":20,"css":["font-family: SourceHanSansSC-Regular;","font-size: 14px;","color: #9B9B9B;","letter-spacing: -0.34px;","text-align: center;"]},{"objectID":"6A489785-65AA-4F42-AFAC-E80A9F1A8BB8","type":"text","name":"地址如下：","rect":{"x":427,"y":656,"width":69,"height":20},"rotation":0,"radius":0,"borders":[],"fills":[],"shadows":[],"opacity":1,"styleName":"","content":"地址如下：","color":{"r":155,"g":155,"b":155,"a":1,"color-hex":"#9B9B9B 100%","argb-hex":"#FF9B9B9B","css-rgba":"rgba(155,155,155,1)","ui-color":"(r:0.61 g:0.61 b:0.61 a:1.00)"},"fontSize":14,"fontFace":"SourceHanSansSC-Regular","textAlign":"center","letterSpacing":-0.337647,"lineHeight":20,"css":["font-family: SourceHanSansSC-Regular;","font-size: 14px;","color: #9B9B9B;","letter-spacing: -0.34px;","text-align: center;"]},{"objectID":"95AFD97C-502A-4D15-8994-0FE62C36BB24","type":"shape","name":"矩形","rect":{"x":430,"y":256,"width":66,"height":32},"rotation":0,"radius":[16,0,0,16],"borders":[],"fills":[{"fillType":"color","color":{"r":23,"g":144,"b":255,"a":1,"color-hex":"#1790FF 100%","argb-hex":"#FF1790FF","css-rgba":"rgba(23,144,255,1)","ui-color":"(r:0.09 g:0.56 b:1.00 a:1.00)"}}],"shadows":[],"opacity":1,"styleName":"","css":["background: #1790FF;","border-radius: 16px 0px 0px 16px;"]},{"objectID":"42DF83DA-A4B3-4BCD-B375-860E0C69FA82","type":"text","name":"种子","rect":{"x":450,"y":262,"width":28,"height":20},"rotation":0,"radius":0,"borders":[],"fills":[],"shadows":[],"opacity":1,"styleName":"","content":"种子","color":{"r":255,"g":255,"b":255,"a":1,"color-hex":"#FFFFFF 100%","argb-hex":"#FFFFFFFF","css-rgba":"rgba(255,255,255,1)","ui-color":"(r:1.00 g:1.00 b:1.00 a:1.00)"},"fontSize":14,"fontFace":"SourceHanSansSC-Regular","textAlign":"center","letterSpacing":-0.337647,"lineHeight":20,"css":["font-family: SourceHanSansSC-Regular;","font-size: 14px;","color: #FFFFFF;","letter-spacing: -0.34px;","text-align: center;"]},{"objectID":"C66B8166-C197-474E-B2DB-0EED5AE098B4","type":"shape","name":"矩形 copy 4","rect":{"x":496,"y":256,"width":66,"height":32},"rotation":0,"radius":[16,0,0,16],"borders":[],"fills":[{"fillType":"color","color":{"r":235,"g":235,"b":235,"a":1,"color-hex":"#EBEBEB 100%","argb-hex":"#FFEBEBEB","css-rgba":"rgba(235,235,235,1)","ui-color":"(r:0.92 g:0.92 b:0.92 a:1.00)"}}],"shadows":[],"opacity":1,"styleName":"","css":["background: #EBEBEB;","border-radius: 16px 0px 0px 16px;"]},{"objectID":"E63C9302-0A3A-493D-8729-1FCED1A232D5","type":"text","name":"助记词","rect":{"x":508,"y":262,"width":41,"height":20},"rotation":0,"radius":0,"borders":[],"fills":[],"shadows":[],"opacity":1,"styleName":"","content":"助记词","color":{"r":51,"g":51,"b":51,"a":1,"color-hex":"#333333 100%","argb-hex":"#FF333333","css-rgba":"rgba(51,51,51,1)","ui-color":"(r:0.20 g:0.20 b:0.20 a:1.00)"},"fontSize":14,"fontFace":"SourceHanSansSC-Regular","textAlign":"center","letterSpacing":-0.337647,"lineHeight":20,"css":["font-family: SourceHanSansSC-Regular;","font-size: 14px;","color: #333333;","letter-spacing: -0.34px;","text-align: center;"]}],"notes":[],"pageName":"摩尔支付开放平台","pageObjectID":"42363F7B-A687-4B6C-B32A-2EDD1135B6E6","name":"私匙","slug":"摩尔支付开放平台-私匙","objectID":"9A7FD532-D369-40CB-BB7C-8B23A0FDA510","width":1440,"height":1024,"imagePath":"preview/%E6%91%A9%E5%B0%94%E6%94%AF%E4%BB%98%E5%BC%80%E6%94%BE%E5%B9%B3%E5%8F%B0-%E7%A7%81%E5%8C%99.png"}],"slices":[{"name":"Expansion","objectID":"61E01CC3-31BA-4160-82E2-FCCB2616BC03","rect":{"x":1312,"y":49,"width":8,"height":6.3},"exportable":[{"name":"Expansion","format":"png","path":"Expansion@1x.png"},{"name":"Expansion","format":"png","path":"mdpi/Expansion.svg"}]},{"name":"logo","objectID":"602B827E-B468-432F-AEA1-45779EEC31F7","rect":{"x":123,"y":26,"width":44,"height":44},"exportable":[{"name":"logo","format":"png","path":"logo@1x.png"},{"name":"logo","format":"png","path":"mdpi/logo.svg"}]}],"colors":[]}) });
     -->
     </script>
   </head>
